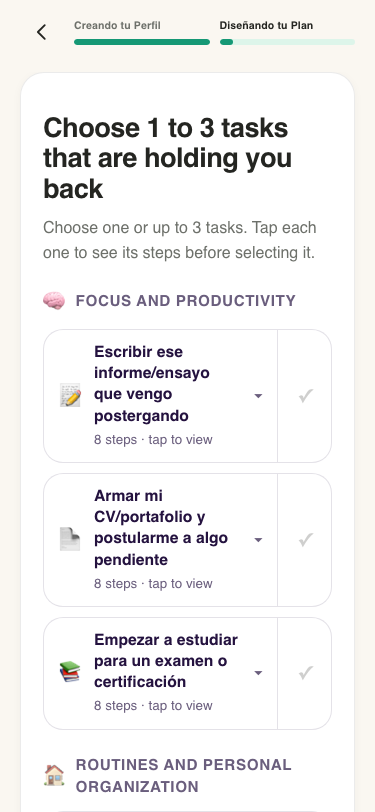
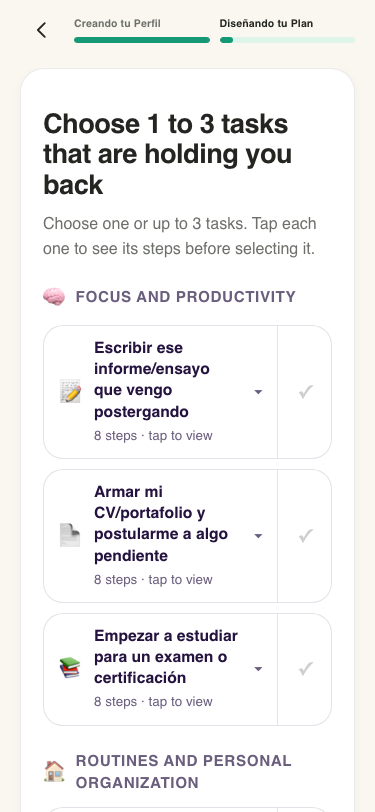
fix(funnel): corrige flechas acumuladas y compacta el layout
Tres correcciones de UI sobre el rediseño:

1. La flecha ya no se acumula al avanzar. Antes se movía el nodo del
   botón al slot del encabezado con un MutationObserver, y cada render
   agregaba otra flecha (medido: 1->2->3->4->5 en 5 pasos). Ahora hay un
   único botón persistente (#funnelBackBtn) en el header y
   backButtonHtml() solo emite un marcador; la visibilidad la decide el
   mismo paso de siempre. Se elimina el MutationObserver y el appendChild.

2. Layout compacto. En 1280x900 el documento media 1075px y las opciones
   de 5 respuestas caian fuera de pantalla. Ahora la ilustracion baja a
   104px, la pregunta a clamp(1.5rem, 6.4vw, 2rem), las opciones a 64px
   min con gap 10px, y el CTA a 48px. En desktop el contenido se centra
   verticalmente con margin-block: auto (no recorta al desbordar).

3. La ilustracion usa assets/logomain.png (asset propio, con canal alfa)
   en lugar del SVG placeholder, a tamano reducido y con object-fit.

Tests: la regresion UI sube a 11 checks (uno nuevo de layout compacto y
el de la flecha reescrito para la arquitectura de boton unico) y el
script de capturas verifica que la flecha no se acumule al navegar y que
una pregunta de 5 opciones quepa sin scroll en >=768px.

diff --git a/funnel.html b/funnel.html
@@ -72,9 +72,9 @@
             display: flex;
             align-items: center;
             flex-wrap: wrap;
-            gap: 8px 14px;
+            gap: 6px 12px;
             margin: 0 -20px;
-            padding: 10px 20px calc(10px + env(safe-area-inset-top, 0px));
+            padding: 8px 20px calc(8px + env(safe-area-inset-top, 0px));
             background: var(--funnel-bg);
         }
 
@@ -254,7 +254,7 @@
         .step-question .card-head h1 {
             margin-top: 0;
             font-family: var(--funnel-serif);
-            font-size: clamp(1.9rem, 8.2vw, 2.5rem);
+            font-size: clamp(1.5rem, 6.4vw, 2rem);
             font-weight: 700;
             letter-spacing: -0.01em;
             line-height: 1.12;
@@ -262,39 +262,38 @@
         }
 
         .step-question .card-head .sub {
-            max-width: 42ch;
+            max-width: 44ch;
             margin-left: auto;
             margin-right: auto;
-            font-size: 0.98rem;
+            margin-top: 10px;
+            font-size: 0.94rem;
         }
 
         .question-illustration {
-            width: 168px;
-            height: 168px;
-            max-width: 62vw;
-            margin: 0 auto 22px;
+            width: 104px;
+            height: 104px;
+            margin: 0 auto 16px;
             display: flex;
             align-items: center;
             justify-content: center;
             overflow: hidden;
-            border-radius: 84px 84px 24px 24px;
+            border-radius: 52px 52px 18px 18px;
             background: linear-gradient(160deg, #E9E4FB 0%, #F3F0FD 60%, #FDF6E4 100%);
         }
 
-        .question-illustration svg,
         .question-illustration img {
             display: block;
-            width: 100%;
-            height: 100%;
-            object-fit: cover;
+            width: 78%;
+            height: 78%;
+            object-fit: contain;
         }
 
         /* ---- Alternativas ---- */
 
         .options {
             display: grid;
-            gap: 16px;
-            margin-top: 26px;
+            gap: 10px;
+            margin-top: 18px;
         }
 
         .opt {
@@ -305,8 +304,8 @@
             justify-content: center;
             gap: 6px;
             width: 100%;
-            min-height: 92px;
-            padding: 18px;
+            min-height: 64px;
+            padding: 12px 16px;
             border: 1px solid var(--funnel-border);
             border-radius: var(--funnel-radius);
             background: var(--funnel-surface);
@@ -354,8 +353,8 @@
         .opt-label {
             display: block;
             font-weight: 700;
-            font-size: clamp(1.15rem, 4.6vw, 1.32rem);
-            line-height: 1.3;
+            font-size: clamp(1.05rem, 4.2vw, 1.18rem);
+            line-height: 1.28;
         }
 
         .opt-desc {
@@ -368,8 +367,9 @@
 
         .opt .opt-check {
             position: absolute;
-            top: 12px;
+            top: 50%;
             right: 12px;
+            margin-top: -11px;
             width: 22px;
             height: 22px;
             border-radius: 999px;
@@ -476,7 +476,7 @@
         .actions {
             display: grid;
             gap: 12px;
-            margin-top: 24px;
+            margin-top: 18px;
         }
 
         .btn {
@@ -484,9 +484,9 @@
             align-items: center;
             justify-content: center;
             gap: 8px;
-            min-height: 52px;
+            min-height: 48px;
             width: 100%;
-            padding: 13px 20px;
+            padding: 11px 20px;
             border: 0;
             border-radius: 999px;
             font: inherit;
@@ -1779,6 +1779,21 @@
         @media (min-width: 720px) {
             .shell {
                 padding-top: 8px;
+                min-height: 100vh;
+                display: flex;
+                flex-direction: column;
+            }
+
+            /* Centra verticalmente sin recortar cuando el contenido excede
+               (margin auto en vez de justify-content: center). */
+            .funnel-root {
+                flex: 1 1 auto;
+                display: flex;
+                flex-direction: column;
+            }
+
+            .funnel-root > .step {
+                margin-block: auto;
             }
         }
 
@@ -1796,23 +1811,23 @@
             }
 
             .question-illustration {
-                width: 152px;
-                height: 152px;
-                margin-bottom: 18px;
+                width: 96px;
+                height: 96px;
+                margin-bottom: 14px;
             }
 
             .options {
-                gap: 14px;
-                margin-top: 22px;
+                gap: 10px;
+                margin-top: 16px;
             }
 
             .opt {
-                min-height: 88px;
-                padding: 16px 14px;
+                min-height: 62px;
+                padding: 11px 14px;
             }
 
             .opt-label {
-                font-size: 1.15rem;
+                font-size: 1.05rem;
             }
         }
 
@@ -1829,21 +1844,22 @@
             }
 
             .question-illustration {
-                width: 132px;
-                height: 132px;
+                width: 84px;
+                height: 84px;
+                border-radius: 42px 42px 14px 14px;
             }
 
             .step-question .card-head h1 {
-                font-size: 1.75rem;
+                font-size: 1.45rem;
             }
 
             .opt {
-                min-height: 80px;
-                padding: 14px 12px;
+                min-height: 58px;
+                padding: 10px 12px;
             }
 
             .opt-label {
-                font-size: 1.05rem;
+                font-size: 1rem;
             }
         }
 
@@ -1862,7 +1878,9 @@
 <body>
     <main class="shell">
         <header class="funnel-header" id="funnelProgress" hidden>
-            <div class="funnel-header-back" id="funnelBackSlot" hidden></div>
+            <div class="funnel-header-back">
+                <button class="back-btn" type="button" id="funnelBackBtn" data-action="back" hidden></button>
+            </div>
             <div class="funnel-stages">
                 <div class="funnel-stage" data-stage="profile" data-state="idle">
                     <span class="funnel-stage-name">Creando tu Perfil</span>
@@ -3043,35 +3061,27 @@
             return [1, bothDone ? 1 : Math.min(0.98, Math.max(0.02, (intoPlan + 1) / planSpan))];
         }
 
-        // La flecha se mantiene exactamente la que emite backButtonHtml():
-        // solo se mueve al slot del encabezado. Si el paso no la emite,
-        // el encabezado queda sin flecha.
-        function syncHeaderBack() {
-            const slot = document.getElementById('funnelBackSlot');
-            if (!slot) {
+        // La flecha es un unico boton persistente en el encabezado. Cada paso
+        // sigue decidiendo si se puede volver con backButtonHtml(): aqui solo
+        // se marca su presencia. Asi nunca se acumulan flechas al avanzar.
+        const BACK_SLOT_MARKER = 'data-funnel-back';
+
+        function syncBackVisibility() {
+            const button = document.getElementById('funnelBackBtn');
+            if (!button) {
                 return;
             }
-            const source = document.querySelector('#funnelRoot .step-top .back-btn');
-            if (source) {
-                const wrapper = source.closest('.step-top');
-                slot.appendChild(source);
-                if (wrapper) {
-                    wrapper.remove();
-                }
-            }
-            slot.hidden = !slot.querySelector('.back-btn');
+            const allowed = !!document.querySelector(`#funnelRoot .step-top[${BACK_SLOT_MARKER}]`);
+            button.hidden = !allowed;
+            button.setAttribute('aria-label', ui('back'));
         }
-
-        const funnelBackObserver = new MutationObserver(() => {
-            syncHeaderBack();
-        });
 
         function updateProgress() {
             const steps = stepList();
             const step = steps[currentStepIndex];
             if (step.type === 'begin' || step.type === 'language') {
                 document.getElementById('funnelProgress').hidden = true;
-                syncHeaderBack();
+                syncBackVisibility();
                 return;
             }
             const progress = document.getElementById('funnelProgress');
@@ -3101,7 +3111,7 @@
                 label.textContent = '';
                 label.hidden = true;
             }
-            syncHeaderBack();
+            syncBackVisibility();
         }
 
         function scrollTop() {
@@ -3724,7 +3734,7 @@
         const BACK_ARROW_SVG = '<svg viewBox="0 0 24 24" fill="none" aria-hidden="true" focusable="false"><path d="M15 4.5 7.5 12l7.5 7.5" stroke="currentColor" stroke-width="2" stroke-linecap="round" stroke-linejoin="round"/></svg>';
 
         function backButtonHtml() {
-            return `<div class="step-top"><button class="back-btn" type="button" data-action="back" aria-label="${ui('back')}">${BACK_ARROW_SVG}</button></div>`;
+            return `<div class="step-top" ${BACK_SLOT_MARKER} hidden aria-hidden="true"></div>`;
         }
 
         function cardOpen(modifier) {
@@ -3732,24 +3742,15 @@
         }
 
         // Ilustraciones por pregunta. Vacio a proposito: hasta que existan
-        // ilustraciones reales, todas las preguntas usan el mismo placeholder.
+        // ilustraciones reales, todas las preguntas usan el mismo logo.
         const QUESTION_ILLUSTRATIONS = {};
 
-        const QUESTION_PLACEHOLDER_SVG = `
-            <svg viewBox="0 0 160 160" aria-hidden="true" focusable="false" preserveAspectRatio="xMidYMid slice">
-                <circle cx="80" cy="82" r="44" fill="#FFFFFF" opacity="0.72"></circle>
-                <path d="M52 96c0-15 12-27 28-27s28 12 28 27" fill="none" stroke="#C9C0EC" stroke-width="5" stroke-linecap="round"></path>
-                <circle cx="66" cy="74" r="5" fill="#B7ACE2"></circle>
-                <circle cx="94" cy="74" r="5" fill="#B7ACE2"></circle>
-                <path d="M68 90c4 4 8 4 12 0" fill="none" stroke="#B7ACE2" stroke-width="4" stroke-linecap="round"></path>
-            </svg>`;
+        const QUESTION_PLACEHOLDER_LOGO = 'assets/logomain.png';
 
         function questionIllustrationHtml(step) {
             const custom = QUESTION_ILLUSTRATIONS[step.id];
-            const inner = custom
-                ? `<img src="${custom.src}" alt="${custom.alt || ''}">`
-                : QUESTION_PLACEHOLDER_SVG;
-            return `<div class="question-illustration" data-question-id="${step.id}">${inner}</div>`;
+            const src = custom ? custom.src : QUESTION_PLACEHOLDER_LOGO;
+            return `<div class="question-illustration" data-question-id="${step.id}"><img src="${src}" alt=""></div>`;
         }
 
         function headHtml(step) {
@@ -5155,6 +5156,8 @@
             history.replaceState(null, '', window.location.pathname);
         }
 
+        document.getElementById('funnelBackBtn').innerHTML = BACK_ARROW_SVG;
+
         funnelState = mergeLoadedState(loadState());
         currentStepIndex = funnelState.locale ? loadStep() : 0;
         persistState();
@@ -5166,8 +5169,6 @@
                 goBack();
             }
         });
-
-        funnelBackObserver.observe(document.getElementById('funnelRoot'), { childList: true, subtree: true });
 
         loadFunnelData().then(() => {
             hydrateSelections();
